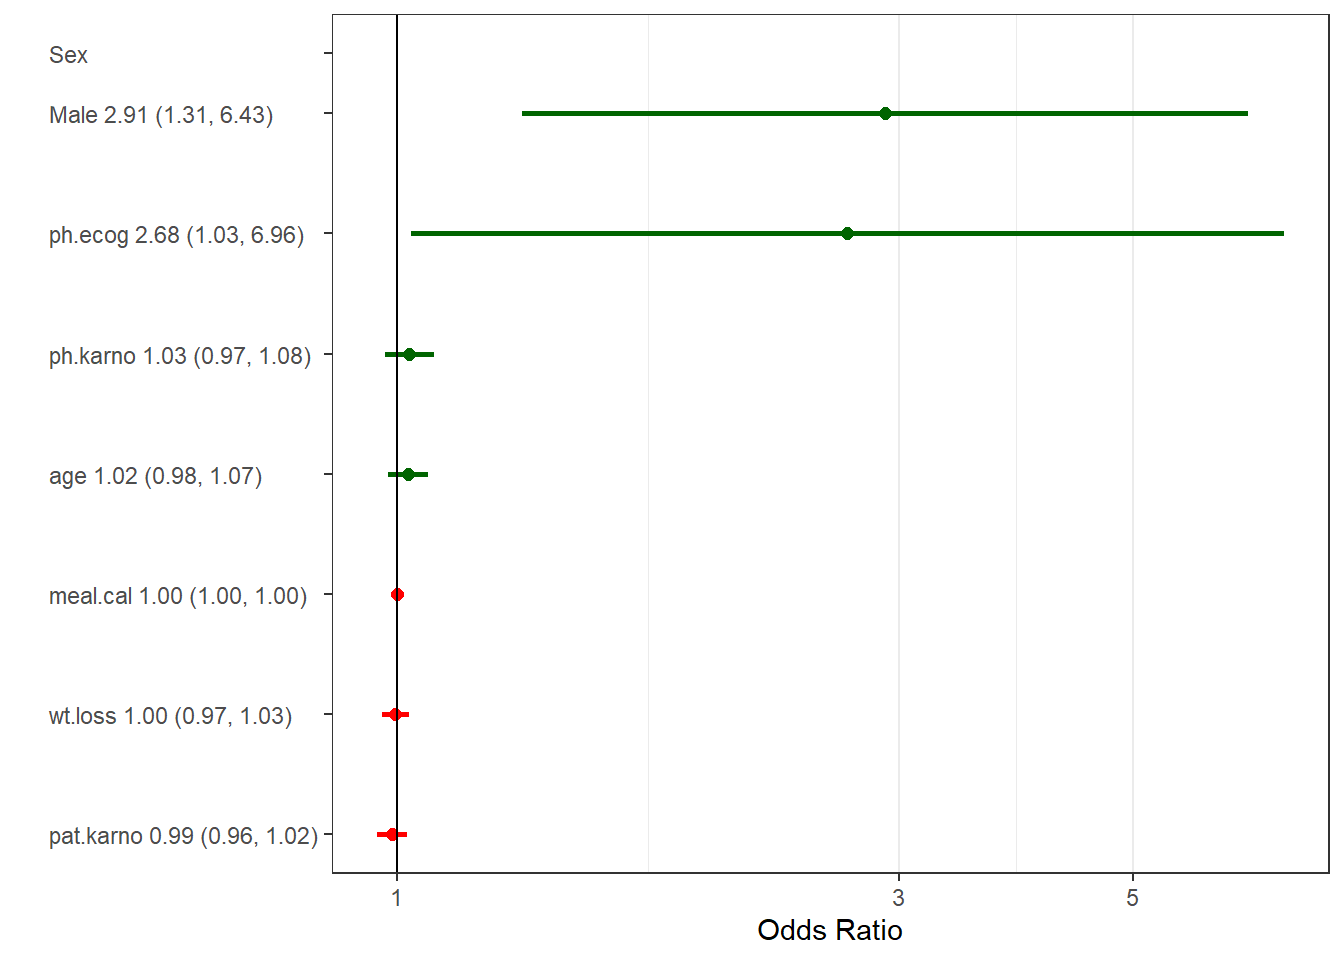
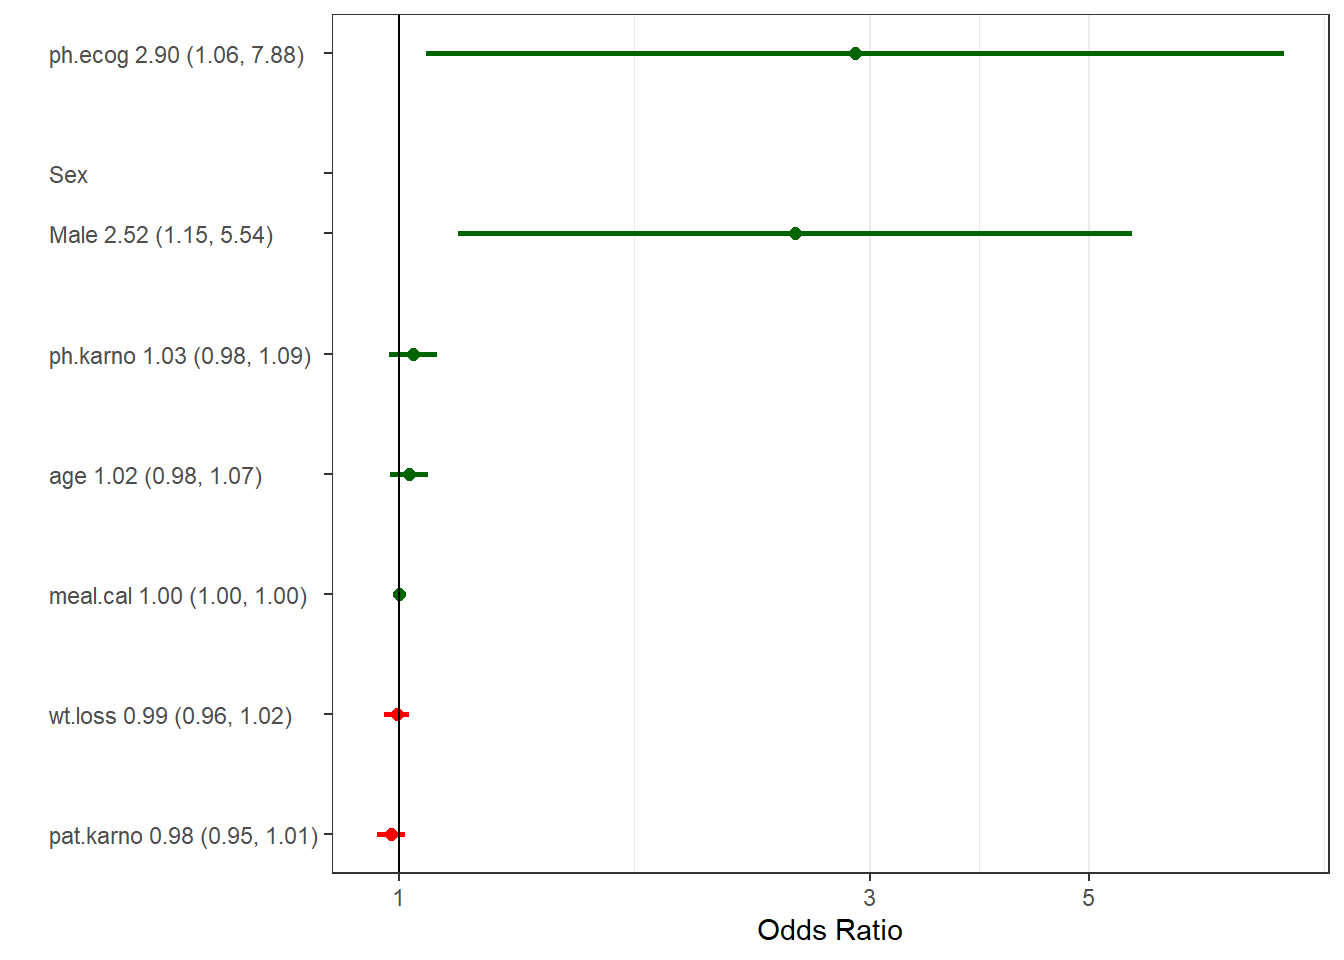
updates to show mvsum with an interaction

diff --git a/docs/mvsum.html b/docs/mvsum.html
@@ -222,8 +222,8 @@ div.csl-indent {
             <section class="normal" id="section-">
 <div id="mvsum" class="section level2" number="3.5">
 <h2><span class="header-section-number">3.5</span> mvsum</h2>
-<p><code>mvsum</code> will return a consistently formatted table for different types of mutivariable models</p>
-<div class="sourceCode" id="cb19"><pre class="sourceCode r"><code class="sourceCode r"><span id="cb19-1"><a href="mvsum.html#cb19-1" aria-hidden="true" tabindex="-1"></a>glm_fit <span class="ot">=</span> <span class="fu">glm</span>(Status<span class="sc">~</span>Sex<span class="sc">+</span>age<span class="sc">+</span>wt.loss,<span class="at">data=</span>lung,<span class="at">family =</span> <span class="st">&#39;binomial&#39;</span>)</span>
+<p><code>mvsum</code> will return a consistently formatted table for different types of mutivariable models. This function now supports interaction terms</p>
+<div class="sourceCode" id="cb19"><pre class="sourceCode r"><code class="sourceCode r"><span id="cb19-1"><a href="mvsum.html#cb19-1" aria-hidden="true" tabindex="-1"></a>glm_fit <span class="ot">=</span> <span class="fu">glm</span>(Status<span class="sc">~</span>Sex<span class="sc">:</span>age<span class="sc">+</span>wt.loss,<span class="at">data=</span>lung,<span class="at">family =</span> <span class="st">&#39;binomial&#39;</span>)</span>
 <span id="cb19-2"><a href="mvsum.html#cb19-2" aria-hidden="true" tabindex="-1"></a><span class="fu">rm_mvsum</span>(glm_fit)</span></code></pre></div>
 <table>
 <thead>
@@ -235,42 +235,63 @@ Covariate
 OR(95%CI)
 </th>
 <th style="text-align:right;">
+p-value
+</th>
+<th style="text-align:right;">
 Global p-value
 </th>
 </tr>
 </thead>
 <tbody>
 <tr>
+<td style="text-align:left;">
+wt loss
+</td>
+<td style="text-align:right;">
+1.00 (0.98,1.02)
+</td>
+<td style="text-align:right;">
+</td>
+<td style="text-align:right;">
+0.96
+</td>
+</tr>
+<tr>
 <td style="text-align:left;font-weight: bold;">
-Sex
+Sex:age
 </td>
 <td style="text-align:right;font-weight: bold;">
-2.99 (1.58,5.67)
+</td>
+<td style="text-align:right;font-weight: bold;">
 </td>
 <td style="text-align:right;font-weight: bold;">
 &lt;0.001
 </td>
 </tr>
 <tr>
-<td style="text-align:left;font-weight: bold;">
-age
+<td style="text-align:left;padding-left: 2em;" indentlevel="1">
+Female:age
 </td>
-<td style="text-align:right;font-weight: bold;">
-1.04 (1.00,1.08)
+<td style="text-align:right;">
+1.03 (0.99,1.06)
 </td>
-<td style="text-align:right;font-weight: bold;">
-0.028
+<td style="text-align:right;">
+0.15
+</td>
+<td style="text-align:right;">
 </td>
 </tr>
 <tr>
-<td style="text-align:left;">
-wt loss
+<td style="text-align:left;padding-left: 2em;" indentlevel="1">
+Male:age
 </td>
 <td style="text-align:right;">
-1.00 (0.98,1.03)
+1.04 (1.01,1.08)
 </td>
 <td style="text-align:right;">
-0.92
+0.014
+</td>
+<td style="text-align:right;">
 </td>
 </tr>
 </tbody>
@@ -285,6 +306,7 @@ wt loss
 <li>added support for polr ordinal regression models</li>
 <li>updated CIs to use t-test instead of Z-test for means</li>
 <li>fixed treatment of glm objects to properly handle linear, binomial and poisson models</li>
+<li>fix to allow interaction terms in the model</li>
 </ul>
 </div>
             </section>

diff --git a/docs/covsum.html b/docs/covsum.html
@@ -245,10 +245,10 @@ Covariate
 Full Sample (n=228)
 </th>
 <th style="text-align:right;">
-Female (n=85)
+Female (n=87)
 </th>
 <th style="text-align:right;">
-Male (n=133)
+Male (n=131)
 </th>
 <th style="text-align:right;">
 NA (n=10)
@@ -277,13 +277,13 @@ Status
 63
 </td>
 <td style="text-align:right;">
-35 (56)
+36 (57)
 </td>
 <td style="text-align:right;">
-24 (38)
+25 (40)
 </td>
 <td style="text-align:right;">
-4 (6)
+2 (3)
 </td>
 </tr>
 <tr>
@@ -294,13 +294,13 @@ Status
 165
 </td>
 <td style="text-align:right;">
-50 (30)
+51 (31)
 </td>
 <td style="text-align:right;">
-109 (66)
+106 (64)
 </td>
 <td style="text-align:right;">
-6 (4)
+8 (5)
 </td>
 </tr>
 <tr>
@@ -324,13 +324,13 @@ Mean (sd)
 9.83 (13.14)
 </td>
 <td style="text-align:right;">
-8.04 (13.49)
+7.66 (12.76)
 </td>
 <td style="text-align:right;">
-11.13 (13.03)
+11.28 (13.23)
 </td>
 <td style="text-align:right;">
-8.11 (10.25)
+10.22 (14.12)
 </td>
 </tr>
 <tr>
@@ -344,10 +344,10 @@ Median (Q1,Q3)
 4 (0,11)
 </td>
 <td style="text-align:right;">
-8.00 (0.75,18.50)
+8.00 (0.25,20.00)
 </td>
 <td style="text-align:right;">
-2 (0,13)
+11 (8,13)
 </td>
 </tr>
 <tr>
@@ -364,7 +364,7 @@ Range (min, max)
 (-13,68)
 </td>
 <td style="text-align:right;">
-(0,30)
+(-16,37)
 </td>
 </tr>
 <tr>
@@ -405,10 +405,10 @@ one level
 228
 </td>
 <td style="text-align:right;">
-85 (37)
+87 (38)
 </td>
 <td style="text-align:right;">
-133 (58)
+131 (57)
 </td>
 <td style="text-align:right;">
 10 (4)

diff --git a/docs/outtable.html b/docs/outtable.html
@@ -261,13 +261,13 @@ NA_
 0
 </td>
 <td style="text-align:right;">
-35
+36
 </td>
 <td style="text-align:right;">
-24
+25
 </td>
 <td style="text-align:right;">
-4
+2
 </td>
 </tr>
 <tr>
@@ -275,13 +275,13 @@ NA_
 1
 </td>
 <td style="text-align:right;font-weight: bold;">
-50
+51
 </td>
 <td style="text-align:right;font-weight: bold;">
-109
+106
 </td>
 <td style="text-align:right;font-weight: bold;">
-6
+8
 </td>
 </tr>
 </tbody>

diff --git a/docs/uvsum.html b/docs/uvsum.html
@@ -285,7 +285,7 @@ Reference
 <td style="text-align:right;">
 </td>
 <td style="text-align:right;">
-85
+87
 </td>
 </tr>
 <tr>
@@ -293,12 +293,12 @@ Reference
 Male
 </td>
 <td style="text-align:right;">
-3.18 (1.89,5.34)
+2.99 (1.79,4.99)
 </td>
 <td style="text-align:right;">
 </td>
 <td style="text-align:right;">
-133
+131
 </td>
 </tr>
 <tr>
